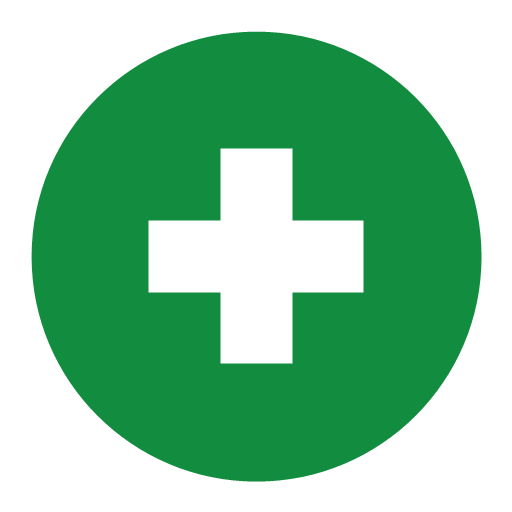
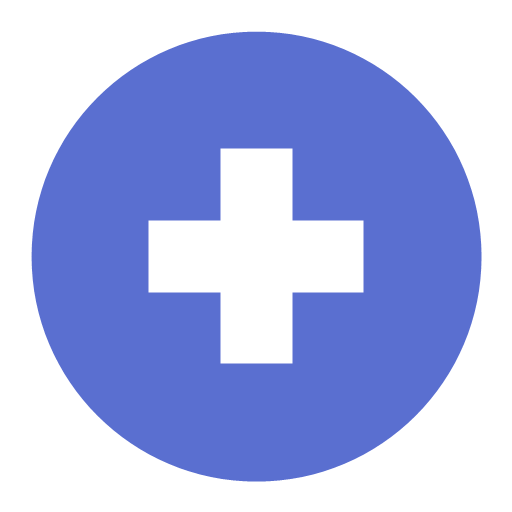
Web: aviso global de 'sin conexion' (AvisoOffline bajo el Navbar) impulsado por eventos del navegador y del cliente API (peticion sin respuesta). PWA: tema de la marca azul en manifest/index.html e iconos regenerados con el color primario. Regresion: variables 0 rotas, contraste 0 problemas.

diff --git a/src/components/common/AvisoOffline.jsx b/src/components/common/AvisoOffline.jsx
@@ -1,0 +1,101 @@
+// ============================================================
+// AvisoOffline.jsx - Aviso global de "sin conexión"
+// ============================================================
+// Un cartel fijo arriba de todo que avisa cuando NO hay conexión.
+// Se monta una sola vez en App.jsx, por encima de las rutas, porque el
+// estado no pertenece a ninguna pantalla: si estás sin red, eso se nota en
+// todas (listados, turnos, reservas) y cada pantalla avisándolo por su lado
+// sería cacofonía.
+//
+// DE DÓNDE SALE EL ESTADO (dos fuentes, a propósito):
+//   1. Los eventos del navegador "online"/"offline". Son la señal de que la
+//      red del dispositivo cambió, pero no alcanza: no detectan que el
+//      SERVIDOR esté caído ni que un proxy corte la ruta.
+//   2. El cliente API (src/api/client.js). Cuando una petición falla SIN
+//      respuesta (servidor inalcanzable, timeout, DNS rota) dispara el evento
+//      "saludweb:sin-conexion", y cada respuesta exitosa dispara
+//      "saludweb:con-conexion". Con eso el cartel aparece aunque el
+//      navegador siga diciendo "online", y se limpia solo en cuanto una
+//      petición vuelve a funcionar.
+//
+// POR QUÉ ES UN CARTEL FIJO Y NO UN TOAST:
+//   El toast es para eventos puntuales (se creó el médico, se guardó).
+//   Estar sin red es un ESTADO, no un evento: puede durar minutos, y una
+//   notificación que se auto-oculta en 3 segundos no alcanza a explicar por
+//   qué la tabla quedó vacía o por qué el guardado "no hizo nada". Un cartel
+//   persistente con aria-live sigue ahí mientras dure el problema.
+import React, { useEffect, useState } from 'react';
+import './AvisoOffline.css';
+
+// Nombre del evento que el cliente API usa para avisar de una caída de red.
+// Se declara acá como constante para no escribirlo con errores de tipeo en
+// dos archivos (la regla de una sola fuente de verdad para los nombres que
+// viajan por el navegador).
+const EVENTO_SIN_CONEXION = 'saludweb:sin-conexion';
+const EVENTO_CON_CONEXION = 'saludweb:con-conexion';
+
+export default function AvisoOffline() {
+  // ¿Estamos sin conexión? Se inicializa con el valor real del navegador
+  // (si la app arrancó sin red, el cartel aparece desde el primer render, no
+  // recién cuando falle la primera petición).
+  const [sinConexion, setSinConexion] = useState(() => !navigator.onLine);
+  // ¿El usuario cerró el cartel con la ✕? Se vuelve a mostrar si vuelve a
+  // detectarse una caída: el cierre es un "ya lo vi", no un "no me avises más".
+  const [oculto, setOculto] = useState(false);
+
+  useEffect(() => {
+    // La sesión del navegador dijo "la red volvió": el cartel desaparece.
+    const volverOnline = () => setSinConexion(false);
+    // El navegador detectó que perdimos la red (avión, WiFi fuera): aparece.
+    const perderOnline = () => setSinConexion(true);
+
+    // Una petición de la API falló sin respuesta del servidor.
+    const falloDeApi = () => {
+      setSinConexion(true);
+      setOculto(false); // Suma una caída nueva: el cierre previo no aplica.
+    };
+    // Una petición de la API respondió: hay camino que funciona, se limpia.
+    const exitoDeApi = () => setSinConexion(false);
+
+    // "online"/"offline" son eventos del WINDOW, no de window.navigator.
+    window.addEventListener('online', volverOnline);
+    window.addEventListener('offline', perderOnline);
+    // Los eventos de la API también van en el window: es el "reloj" común
+    // que todas las pestañas (o esta) comparten por defecto.
+    window.addEventListener(EVENTO_SIN_CONEXION, falloDeApi);
+    window.addEventListener(EVENTO_CON_CONEXION, exitoDeApi);
+
+    // Cleanup: al desmontar el componente se quitan TODOS los listeners.
+    // Si no se hiciera, el cartel seguiría recibiendo eventos con el
+    // componente ya fuera del DOM (el "Sin conexión" de una app que se
+    // desmontó no se le muestra a nadie, pero es mal hábito igual).
+    return () => {
+      window.removeEventListener('online', volverOnline);
+      window.removeEventListener('offline', perderOnline);
+      window.removeEventListener(EVENTO_SIN_CONEXION, falloDeApi);
+      window.removeEventListener(EVENTO_CON_CONEXION, exitoDeApi);
+    };
+  }, []);
+
+  // Sin problema de conexión, o el usuario ya lo cerró: no se renderiza nada.
+  if (!sinConexion || oculto) return null;
+
+  return (
+    // role="alert" con aria-live: los lectores de pantalla anuncian el cambio
+    // de estado (que ES la información: "ahora estás offline").
+    <div className="aviso-conexion" role="alert">
+      <span className="aviso-conexion-icono" aria-hidden="true">📡</span>
+      <span className="aviso-conexion-texto">
+        Sin conexión. Los datos podrían no actualizarse y los cambios no llegan al servidor.
+      </span>
+      {/* Botón para cerrar el cartel (no es un error que bloquee la app). */}
+      <button
+        className="aviso-conexion-cerrar"
+        onClick={() => setOculto(true)}
+        aria-label="Cerrar aviso de conexión"
+      >
+        ✕
+      </button>
+    </div>
+  );
+}

diff --git a/src/components/common/AvisoOffline.css b/src/components/common/AvisoOffline.css
@@ -1,0 +1,75 @@
+/* ============================================================
+   AvisoOffline.css - Cartel fijo de "sin conexión"
+   ============================================================
+   El cartel es una barra fina que va entre el Navbar y el contenido,
+   en el flujo normal del documento (App.jsx lo coloca ahí). No necesita
+   position ni z-index: la barra simplemente ocupa su lugar, siempre visible
+   mientras el problema dure y sin tapar la navegación.
+
+   Usa los tokens de AVISO del design system (--aviso, --aviso-fondo,
+   --aviso-texto), no el color de la marca: "sin conexión" es una advertencia
+   temporal, y pintarla de primario la haría competir con los botones
+   principales sin transmitir "atención acá". */
+
+/* --------------------- fondo y posición -------------------- */
+.aviso-conexion {
+  display: flex;
+  /* Fila: ícono + texto + botón de cierre alineados en horizontal */
+  align-items: center;
+  /* Centra los tres elementos en el eje vertical de la barra */
+  justify-content: space-between;
+  /* Texto a la izquierda y botón de cierre pegado al borde derecho */
+  gap: 0.6rem;
+  /* Espacio entre ícono, texto y botón (el ritmo del sistema) */
+  padding: 0.55rem 1rem;
+  /* Aire interno: vertical compacto para no robarle protagonismo a la pantalla */
+  background: var(--aviso-fondo);
+  /* Fondo ámbar pálido: color de advertencia, igual que el de los toasts */
+  border-bottom: 2px solid var(--aviso);
+  /* Borde inferior ámbar: la barra queda "apoyada" sobre el contenido */
+  color: var(--aviso-texto);
+  /* Texto ámbar oscuro sobre fondo ámbar pálido (contraste WCAG AA verificado) */
+  font-size: var(--texto-base);
+  /* Tipografía base del sistema: no se achica, 16px es el mínimo en móvil */
+}
+
+/* ------------------ ícono y texto -------------------------- */
+.aviso-conexion-icono {
+  font-size: var(--texto-md);
+  /* El ícono es un poco más grande que el texto: se lee como pictograma */
+  flex-shrink: 0;
+  /* No se achica si la barra se queda angosta en un teléfono */
+}
+
+.aviso-conexion-texto {
+  flex: 1;
+  /* El texto ocupa el espacio disponible y empuja el botón al borde */
+}
+
+/* ------------------ botón de cierre ------------------------ */
+.aviso-conexion-cerrar {
+  background: transparent;
+  /* Sin fondo: es un botón de solo ícono, la barra ya tiene su color */
+  border: none;
+  /* Sin borde: el padding define el área táctil */
+  color: inherit;
+  /* El ícono toma el color del texto de la barra (contraste garantizado) */
+  font-size: var(--texto-base);
+  /* Tamaño del "✕", coherente con el texto de la barra */
+  cursor: pointer;
+  /* Manito al pasar: señal de que es interactivo (estándar de la web) */
+  padding: 0.35rem 0.6rem;
+  /* Aire alrededor del "✕": con él se llega al área táctil mínima de 44px */
+  border-radius: var(--radio-sm);
+  /* Esquinas suaves igual que los demás botones del sistema */
+  margin-left: 0.5rem;
+  /* Separación mínima del texto cuando la barra es angosta */
+}
+
+/* El foco siempre se ve: es el mínimo de accesibilidad para navegar por teclado */
+.aviso-conexion-cerrar:focus-visible {
+  outline: 2px solid var(--aviso);
+  /* Anillo de foco en el color de la advertencia (no se pierde con el fondo) */
+  outline-offset: 2px;
+  /* Separa el anillo del botón para que no se recorte con el borde de la barra */
+}

diff --git a/src/api/client.js b/src/api/client.js
@@ -20,6 +20,31 @@ const client = axios.create({
   },
 });
 
+// Nombre del evento que se dispara cuando una petición falla SIN respuesta
+// (servidor inalcanzable, timeout, DNS rota). Lo escucha el cartel global de
+// "sin conexión" (AvisoOffline.jsx). Vivir en este archivo y no en aquel
+// evita escribir el string en dos lugares con errores de tipeo.
+const EVENTO_SIN_CONEXION = 'saludweb:sin-conexion';
+// El evento complementario: se dispara cuando UNA petición responde bien, y
+// le dice al cartel "ya hay red, escondete". También lo escucha AvisoOffline.
+const EVENTO_CON_CONEXION = 'saludweb:con-conexion';
+
+// Dispara el evento que marca al app como "sin conexión" (best effort: si no
+// hay window, como en un entorno de test, no pasa nada y no rompe la llamada).
+function avisarSinConexion() {
+  if (typeof window !== 'undefined' && window.dispatchEvent) {
+    window.dispatchEvent(new CustomEvent(EVENTO_SIN_CONEXION));
+  }
+}
+
+// Dispara el evento que marca al app como "con conexión" (la petición de la
+// que venimos, pidamos lo que pidamos, demuestra que hay camino a la red).
+function avisarConConexion() {
+  if (typeof window !== 'undefined' && window.dispatchEvent) {
+    window.dispatchEvent(new CustomEvent(EVENTO_CON_CONEXION));
+  }
+}
+
 // Interceptor: agregar token a cada request
 client.interceptors.request.use(
   // interceptors.request.use: "intercepta" cada petición saliente para modificarla antes de enviarse
@@ -42,8 +67,14 @@ client.interceptors.request.use(
 // Interceptor: manejar errores globales
 client.interceptors.response.use(
   // interceptors.response.use: "intercepta" cada respuesta (éxito o error) antes de entregarla al código que hizo la petición
-  (response) => response,
-  // En respuestas exitosas se devuelve la respuesta tal cual (no se modifica nada)
+  (response) => {
+    // Llegó una respuesta HTTP válida: hay camino que funciona, el cartel de
+    // "sin conexión" (si estaba visible) puede esconderse. Se avisa incluso si
+    // la respuesta es un 4xx/5xx, porque eso significa que la RED está bien:
+    // "sin conexión" no es lo mismo que "el servidor rechazó la petición".
+    avisarConConexion();
+    return response;
+  },
   (error) => {
     // callback que recibe el error de la respuesta HTTP
     // Si es 401, limpiar token y redirigir a login
@@ -55,6 +86,13 @@ client.interceptors.response.use(
       // ...también se eliminan los datos del usuario guardados (sesión completamente limpia)
       window.location.href = '/login';
       // Se redirige el navegador completa al login (recarga de página) para que el usuario vuelva a autenticarse
+    } else if (!error.response) {
+      // Un error SIN respuesta tiene una sola causa: la petición salió y nunca
+      // volvió (server caído, cortado el WiFi, timeout de 15s). Que no haya
+      // llegado ni un error HTTP es la señal de "estamos sin conexión", y el
+      // cartel global lo tiene que mostrar. Los errores CON respuesta no
+      // entran acá: son decisiones del servidor, no problemas de red.
+      avisarSinConexion();
     }
     return Promise.reject(error);
     // Se rechaza la promesa para que el interceptor no se trague el error: los componentes siguen pudiendo manejarlo

diff --git a/src/App.jsx b/src/App.jsx
@@ -29,6 +29,7 @@ import { AuthProvider, AuthContext } from './context/AuthContext.jsx';
 import { useContext } from 'react';
 
 import Navbar from './components/Navbar';
+import AvisoOffline from './components/common/AvisoOffline';
 import Login from './components/Auth/Login';
 import Register from './components/Auth/Register';
 import Dashboard from './components/Dashboard/Dashboard';
@@ -151,6 +152,13 @@ function AppContent() {
           cambiar de pantalla lo volvería a montar y perdería el estado; acá
           es una sola instancia que se mantiene durante toda la navegación. */}
       <Navbar />
+
+      {/* AvisoOffline es un cartel GLOBAL: va también fuera de <Routes>,
+          justo debajo del Navbar, porque "sin conexión" es un estado de la
+          aplicación entera, no de una pantalla. Al vivir acá no se desmonta
+          al navegar y conserva su estado (si el cartel está visible, sigue
+          visible al cambiar de ruta, que es lo correcto). */}
+      <AvisoOffline />
 
       <main className="main-content">
         <Routes>

diff --git a/index.html b/index.html
@@ -6,7 +6,7 @@
     <!-- <head> contiene metadatos del documento que no se muestran directamente en la página -->
     <meta charset="UTF-8" />
     <!-- charset="UTF-8" define la codificación de caracteres para soportar tildes y símbolos en español -->
-    <meta name="theme-color" content="#1c8140" />
+    <meta name="theme-color" content="#4a5cba" />
     <!-- theme-color: color de la barra del navegador en móviles y del frame de la PWA instalada -->
     <link rel="icon" type="image/svg+xml" href="/vite.svg" />
     <!-- Favicon (icono de la pestaña del navegador) apuntando al SVG que Vite genera por defecto -->
